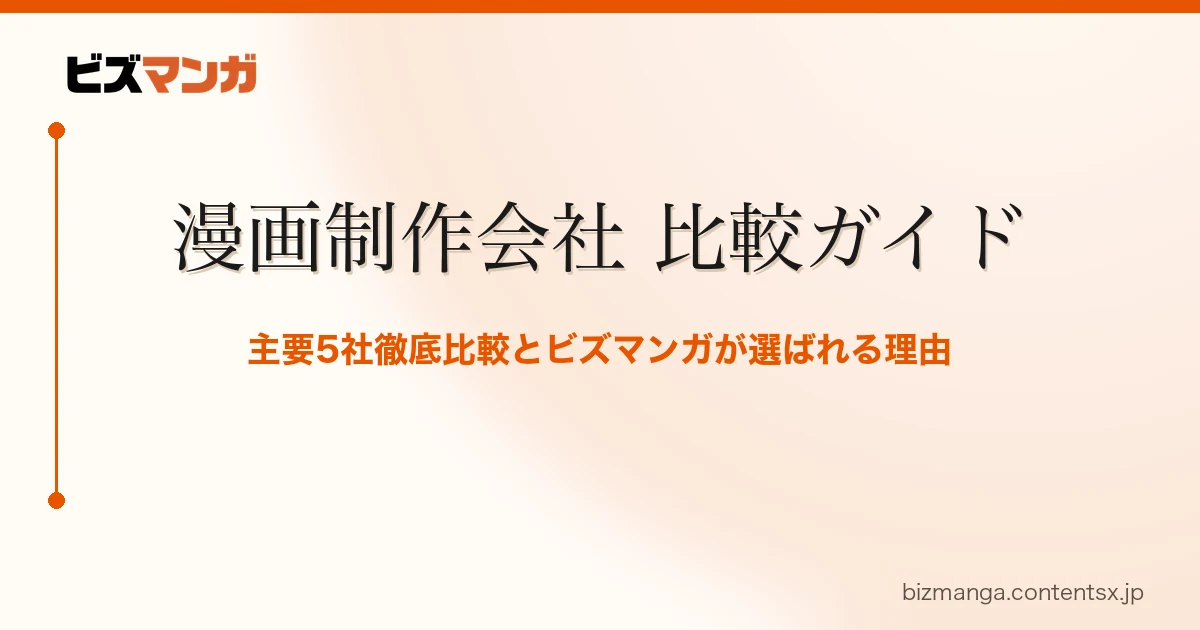
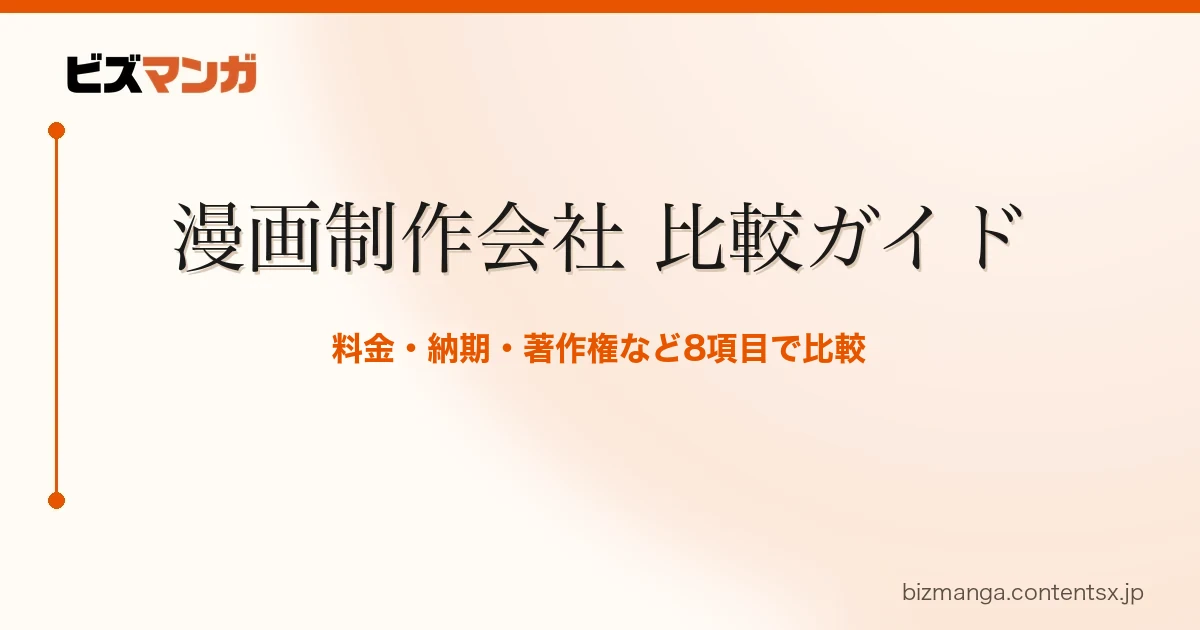
fix: 比較ガイドのOGP画像の「主要5社」を外し、隠し欄を自動入力から外す（#90・#91 の追い修正） (#107)
* chore: 作業開始（fix/83-81-followups）

* fix: 比較ガイドの OGP 画像から「主要5社徹底比較」を外し、隠し欄をパスワード管理ツールの自動入力から外す

- 比較ガイドの OGP 画像の副題を「料金・納期・著作権など8項目で比較」に差し替え（背景は元画像のまま）、
  og:image:alt / twitter:image:alt も同じ文に。更新日を 2026-10-26 に（#90 の直し残し）
- お問い合わせ・資料DL の隠し欄に data-1p-ignore / data-lpignore / data-bwignore / data-form-type=other を追加。
  値が入った送信は捨てる仕様のため、autocomplete=off を無視するツールが埋めると本物の問い合わせが消える（#91 のレビュー指摘）
- SPEC.md に隠し欄の除外指定を追記

Refs #83 #81

---------

Changed region(s): [[0.185, 0.5127, 0.8017, 0.6032]]

diff --git a/manga-production-company.html b/manga-production-company.html
@@ -2,7 +2,7 @@
 <html lang="ja">
 <head>
   <meta charset="UTF-8">
-  <meta http-equiv="last-modified" content="2026-09-23T22:11:00+09:00">
+  <meta http-equiv="last-modified" content="2026-10-26T13:30:00+09:00">
   <meta name="referrer" content="strict-origin-when-cross-origin">
   <meta name="viewport" content="width=device-width, initial-scale=1.0">
   <meta http-equiv="Content-Security-Policy" content="default-src 'self' https: data: blob:; script-src 'self' 'unsafe-inline' 'unsafe-eval' https://cdnjs.cloudflare.com https://www.googletagmanager.com https://googleads.g.doubleclick.net https://www.googleadservices.com https://*.clarity.ms https://cms.contentsx.jp https://fonts.googleapis.com https://js.hubspot.com https://*.hs-scripts.com https://*.hs-analytics.net https://*.hs-banner.com https://*.hsforms.com https://*.hscollectedforms.net; style-src 'self' 'unsafe-inline' https://fonts.googleapis.com https://fonts.gstatic.com; img-src 'self' https: data: blob:; font-src 'self' https://fonts.gstatic.com data:; connect-src 'self' https: wss:; frame-src https: data:; object-src 'none'; base-uri 'self'">
@@ -34,7 +34,7 @@
   <meta property="og:image" content="https://bizmanga.contentsx.jp/material/images/og/og-manga-production-company.webp">
   <meta property="og:image:width" content="1200">
   <meta property="og:image:height" content="630">
-  <meta property="og:image:alt" content="漫画制作会社・マンガ制作会社 比較ガイド - 主要5社徹底比較">
+  <meta property="og:image:alt" content="漫画制作会社・マンガ制作会社 比較ガイド - 料金・納期・著作権など8項目で比較">
   <meta property="og:locale" content="ja_JP">
   <!-- Twitter Card -->
   <meta name="twitter:card" content="summary_large_image">
@@ -42,7 +42,7 @@
   <meta name="twitter:creator" content="@Bizmanga_">
   <meta name="twitter:title" content="漫画制作会社・漫画広告制作会社を比較｜料金・納期・著作権8項目｜ビズマンガ">
   <meta name="twitter:description" content="漫画制作会社・漫画広告制作会社を、料金・納期・対応範囲・修正回数・著作権など8項目で比較。各社の公開情報を整理し、採用・広告・営業など用途別に制作会社の選び方を解説します。">
-  <meta name="twitter:image:alt" content="漫画制作会社・マンガ制作会社 比較ガイド - 主要5社徹底比較">
+  <meta name="twitter:image:alt" content="漫画制作会社・マンガ制作会社 比較ガイド - 料金・納期・著作権など8項目で比較">
   <meta name="twitter:image" content="https://bizmanga.contentsx.jp/material/images/og/og-manga-production-company.webp">
   <link rel="icon" type="image/png" href="https://contentsx.jp/material/images/logo/bizmanga-icon.png">
   <link rel="manifest" href="/manifest.json">
@@ -59,7 +59,7 @@
     "url": "https://bizmanga.contentsx.jp/manga-production-company",
     "inLanguage": "ja-JP",
     "datePublished": "2026-04-27",
-    "dateModified": "2026-09-23",
+    "dateModified": "2026-10-26",
     "author": [
       {
         "@type": "Person",

diff --git a/contact.html b/contact.html
@@ -185,10 +185,12 @@ p{margin:0 0 16px;}
           <!-- ハニーポット: 人には見えない入力欄。ボットだけが埋めるので、
                値が入っていた送信は js/bm-contact.js がどこへも送らず完了表示だけ出す（CRM側も data-honeypot で破棄する）。
                display:none ではなく画面外に飛ばす（display:none を無視するボット対策）。
-               tabindex=-1 と autocomplete=off でキーボード操作・自動補完からも外す。 -->
+               tabindex=-1 と autocomplete=off でキーボード操作・自動補完からも外す。
+               autocomplete=off を無視するパスワード管理ツール向けに data-1p-ignore（1Password）・
+               data-lpignore（LastPass）・data-bwignore（Bitwarden）・data-form-type=other も付ける。 -->
           <div aria-hidden="true" style="position:absolute;left:-9999px;top:auto;width:1px;height:1px;overflow:hidden;">
             <label for="bmWebsite">Website (do not fill)</label>
-            <input type="text" id="bmWebsite" name="website" tabindex="-1" autocomplete="off">
+            <input type="text" id="bmWebsite" name="website" tabindex="-1" autocomplete="off" data-1p-ignore data-lpignore="true" data-bwignore="true" data-form-type="other">
           </div>
           <button type="submit" class="cb-submit bm-form-submit" aria-label="送信する" disabled>
             <span class="cb-label">送信する</span>

diff --git a/download.html b/download.html
@@ -202,10 +202,12 @@ p{margin:0 0 16px;}
               </label>
               <!-- ハニーポット: 人には見えない入力欄。ボットだけが埋めるので、値が入った送信はCRM側で黙って破棄する。
                    display:none ではなく画面外に飛ばす（display:none を無視するボット対策）。
-                   tabindex=-1 と autocomplete=off でキーボード操作・自動補完からも外す。 -->
+                   tabindex=-1 と autocomplete=off でキーボード操作・自動補完からも外す。
+                   autocomplete=off を無視するパスワード管理ツール向けに data-1p-ignore（1Password）・
+                   data-lpignore（LastPass）・data-bwignore（Bitwarden）・data-form-type=other も付ける。 -->
               <div class="bm-dl-hp" aria-hidden="true">
                 <label for="dlWebsite">Website (do not fill)</label>
-                <input type="text" id="dlWebsite" name="website" tabindex="-1" autocomplete="off">
+                <input type="text" id="dlWebsite" name="website" tabindex="-1" autocomplete="off" data-1p-ignore data-lpignore="true" data-bwignore="true" data-form-type="other">
               </div>
               <button type="submit" class="cb-submit bm-dl-submit" aria-label="資料をダウンロードする" disabled>
                 <span class="cb-label">資料をダウンロードする</span>

diff --git a/SPEC.md b/SPEC.md
@@ -1413,7 +1413,7 @@ IndexNowはpushのbefore〜after全体を対象とする。beforeが取得でき
 ### 16.3 ページ固有ファイルの配置（2026-10-05）
 
 - お問い合わせ: `js/bm-contact.js`。資料DLと共通のHubSpot項目・送信先は `js/bm-lead.js`。お問い合わせの成功待ちと資料DLの非同期送信の違いは維持。
-- お問い合わせフォームは `method="post"` と送信ボタンの初期無効化でJS未読込時のGET送信を防ぎ、ハンドラー登録後に有効化する。共通送信JSの未読込・同期例外も失敗案内と状態復旧の対象とし、入力内容を保持する。完了表示・広告CVはHubSpotの受理成功時だけ行う（例外: ハニーポット `#bmWebsite` に値がある送信は、どこへも送らず広告CVも発火させずに完了表示だけ出す。資料DLと同じ）。
+- お問い合わせフォームは `method="post"` と送信ボタンの初期無効化でJS未読込時のGET送信を防ぎ、ハンドラー登録後に有効化する。共通送信JSの未読込・同期例外も失敗案内と状態復旧の対象とし、入力内容を保持する。完了表示・広告CVはHubSpotの受理成功時だけ行う（例外: ハニーポット `#bmWebsite` に値がある送信は、どこへも送らず広告CVも発火させずに完了表示だけ出す。資料DLと同じ）。本物の利用者の送信が消えないよう、ハニーポットには `autocomplete="off"` に加えてパスワード管理ツールの除外指定（`data-1p-ignore` / `data-lpignore="true"` / `data-bwignore="true"` / `data-form-type="other"`）を付ける（2026-10-26。`#dlWebsite` も同じ）。
 - 送信機能の準備中はHTML内の `#bmContactStatus` に再読み込み・電話連絡の案内を表示し、初期化成功後に隠す。フォームJSの読込失敗時とJavaScript無効時にも案内を残す。
 - お客様の声の詳細では、共通サニタイザーが利用できない場合に読込表示を終了してエラーを表示し、未処理の本文は挿入しない。
 - お客様の声の詳細の Review JSON-LD には `datePublished` を出さない。`/testimonials/{id}` が日付を返さないため（2026-10 時点）。2026-10-15 まで閲覧した日を入れていた（Issue #88）。WP が日付を返すようになったら、その値で出す。
